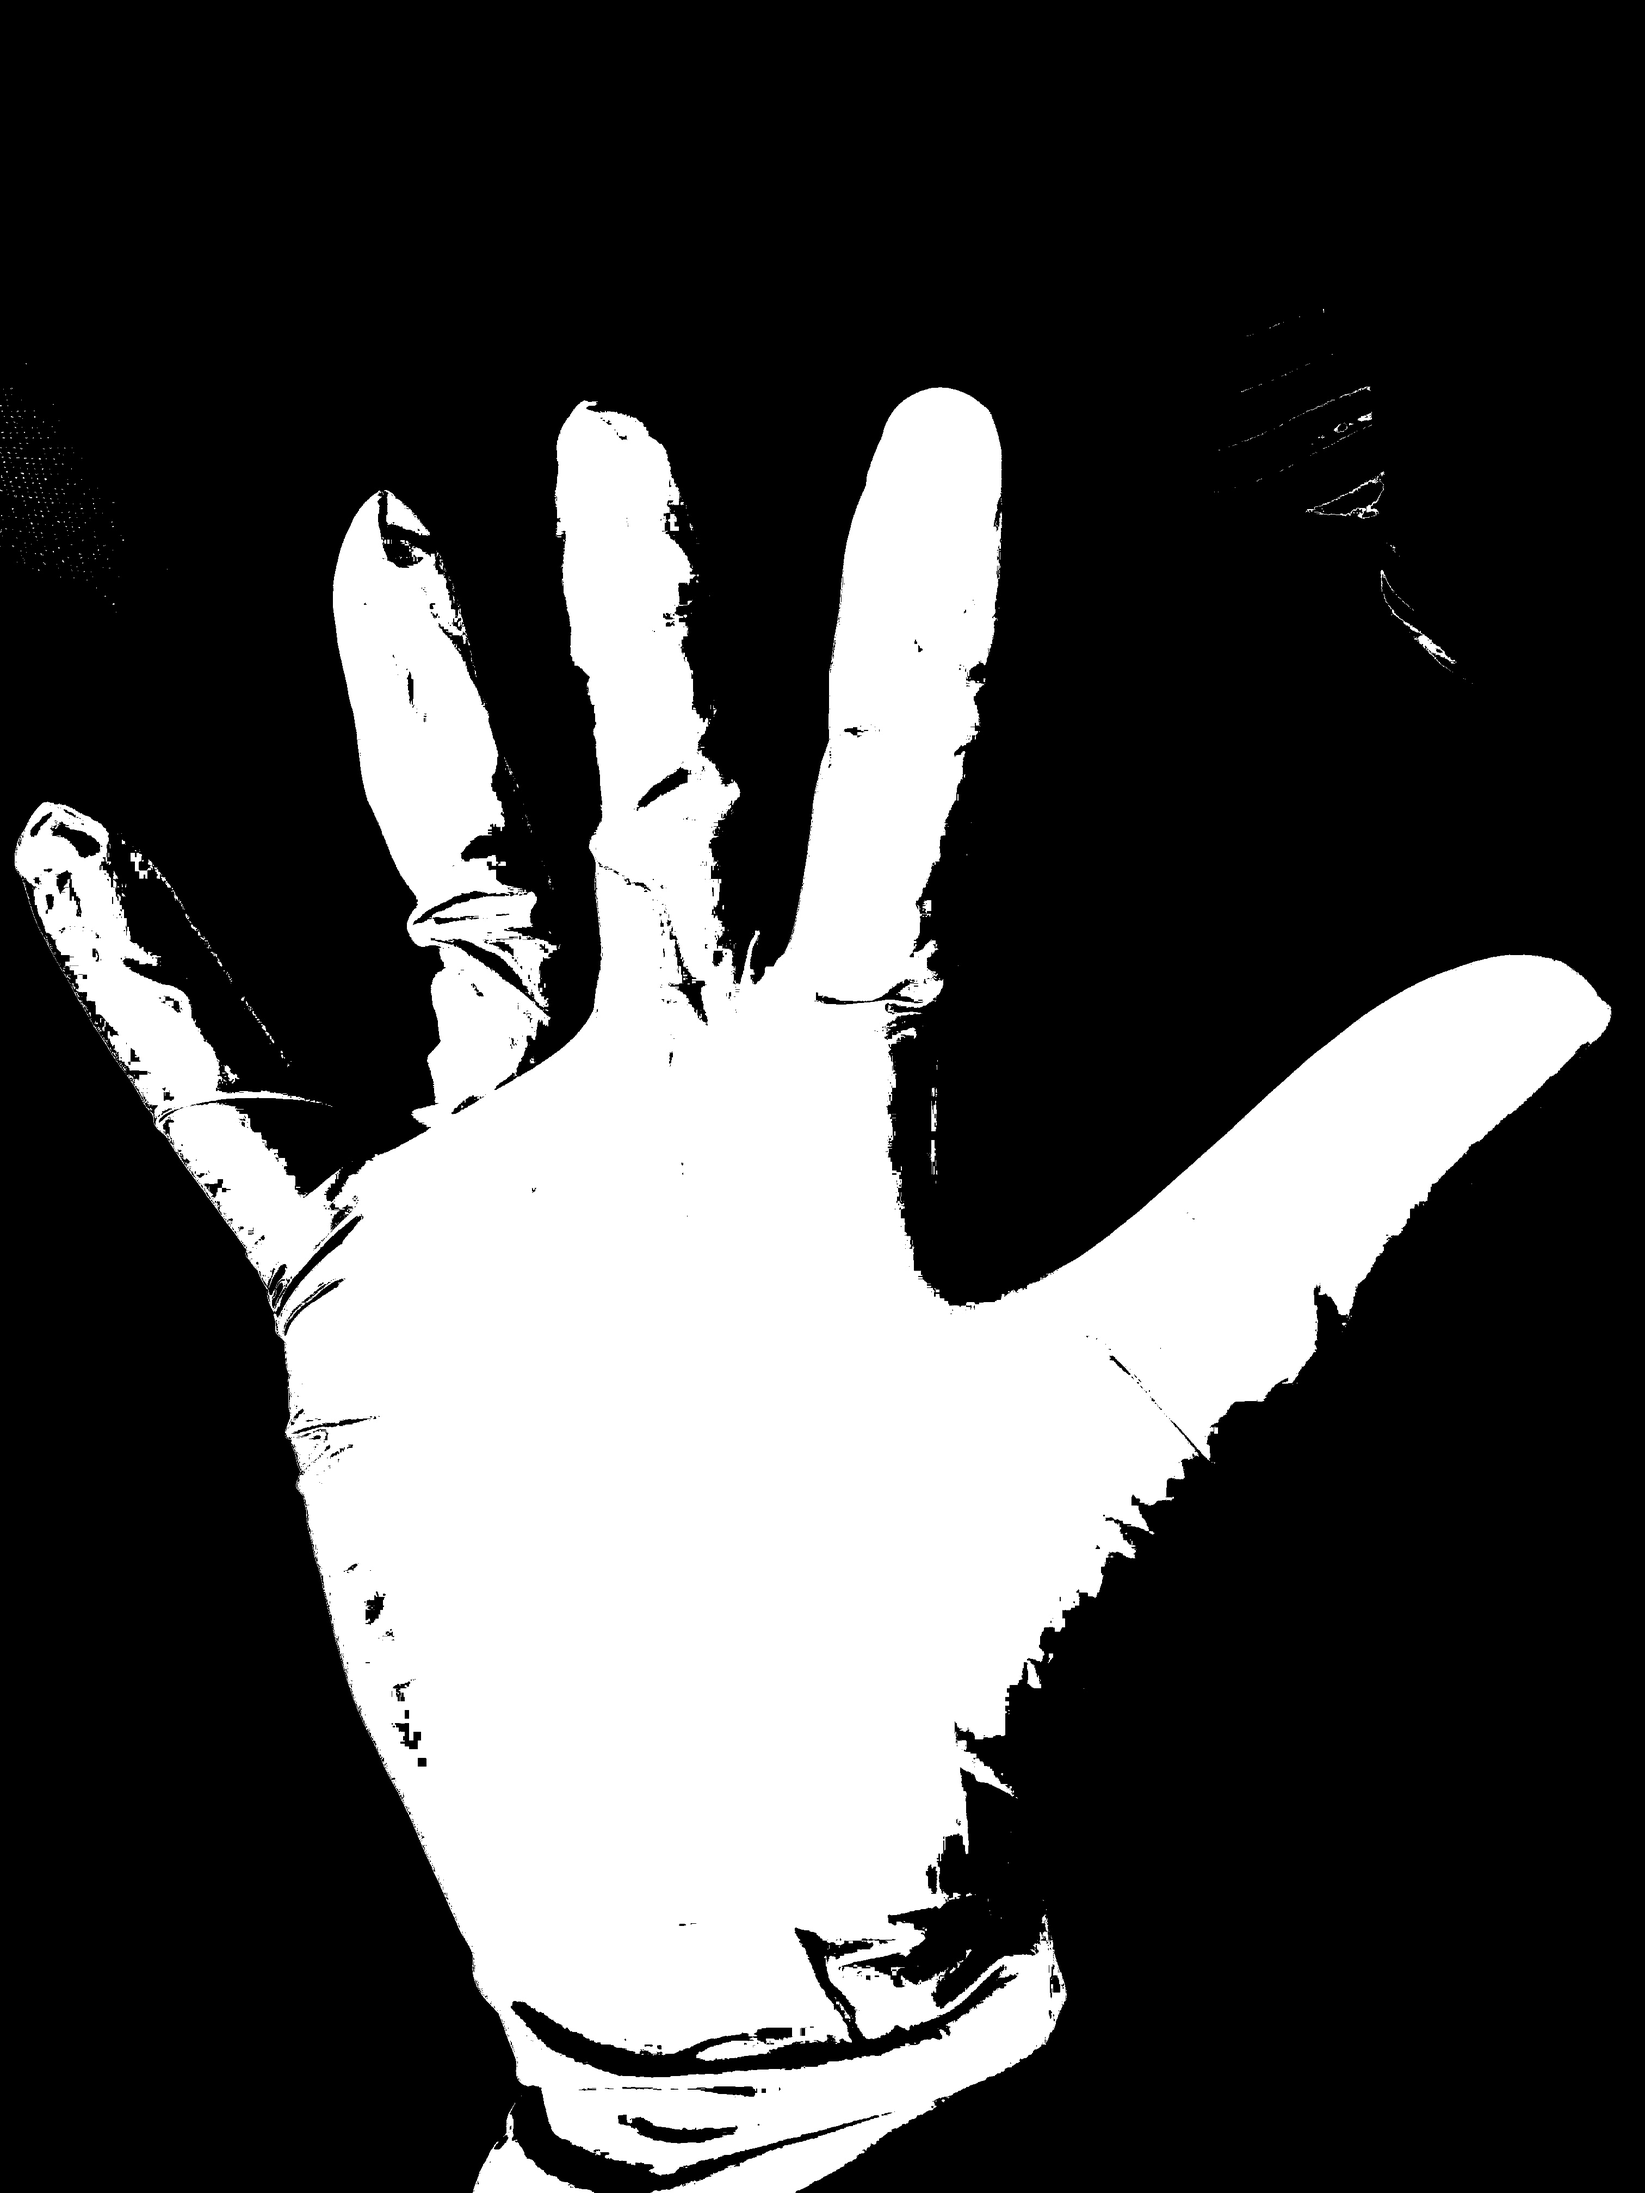
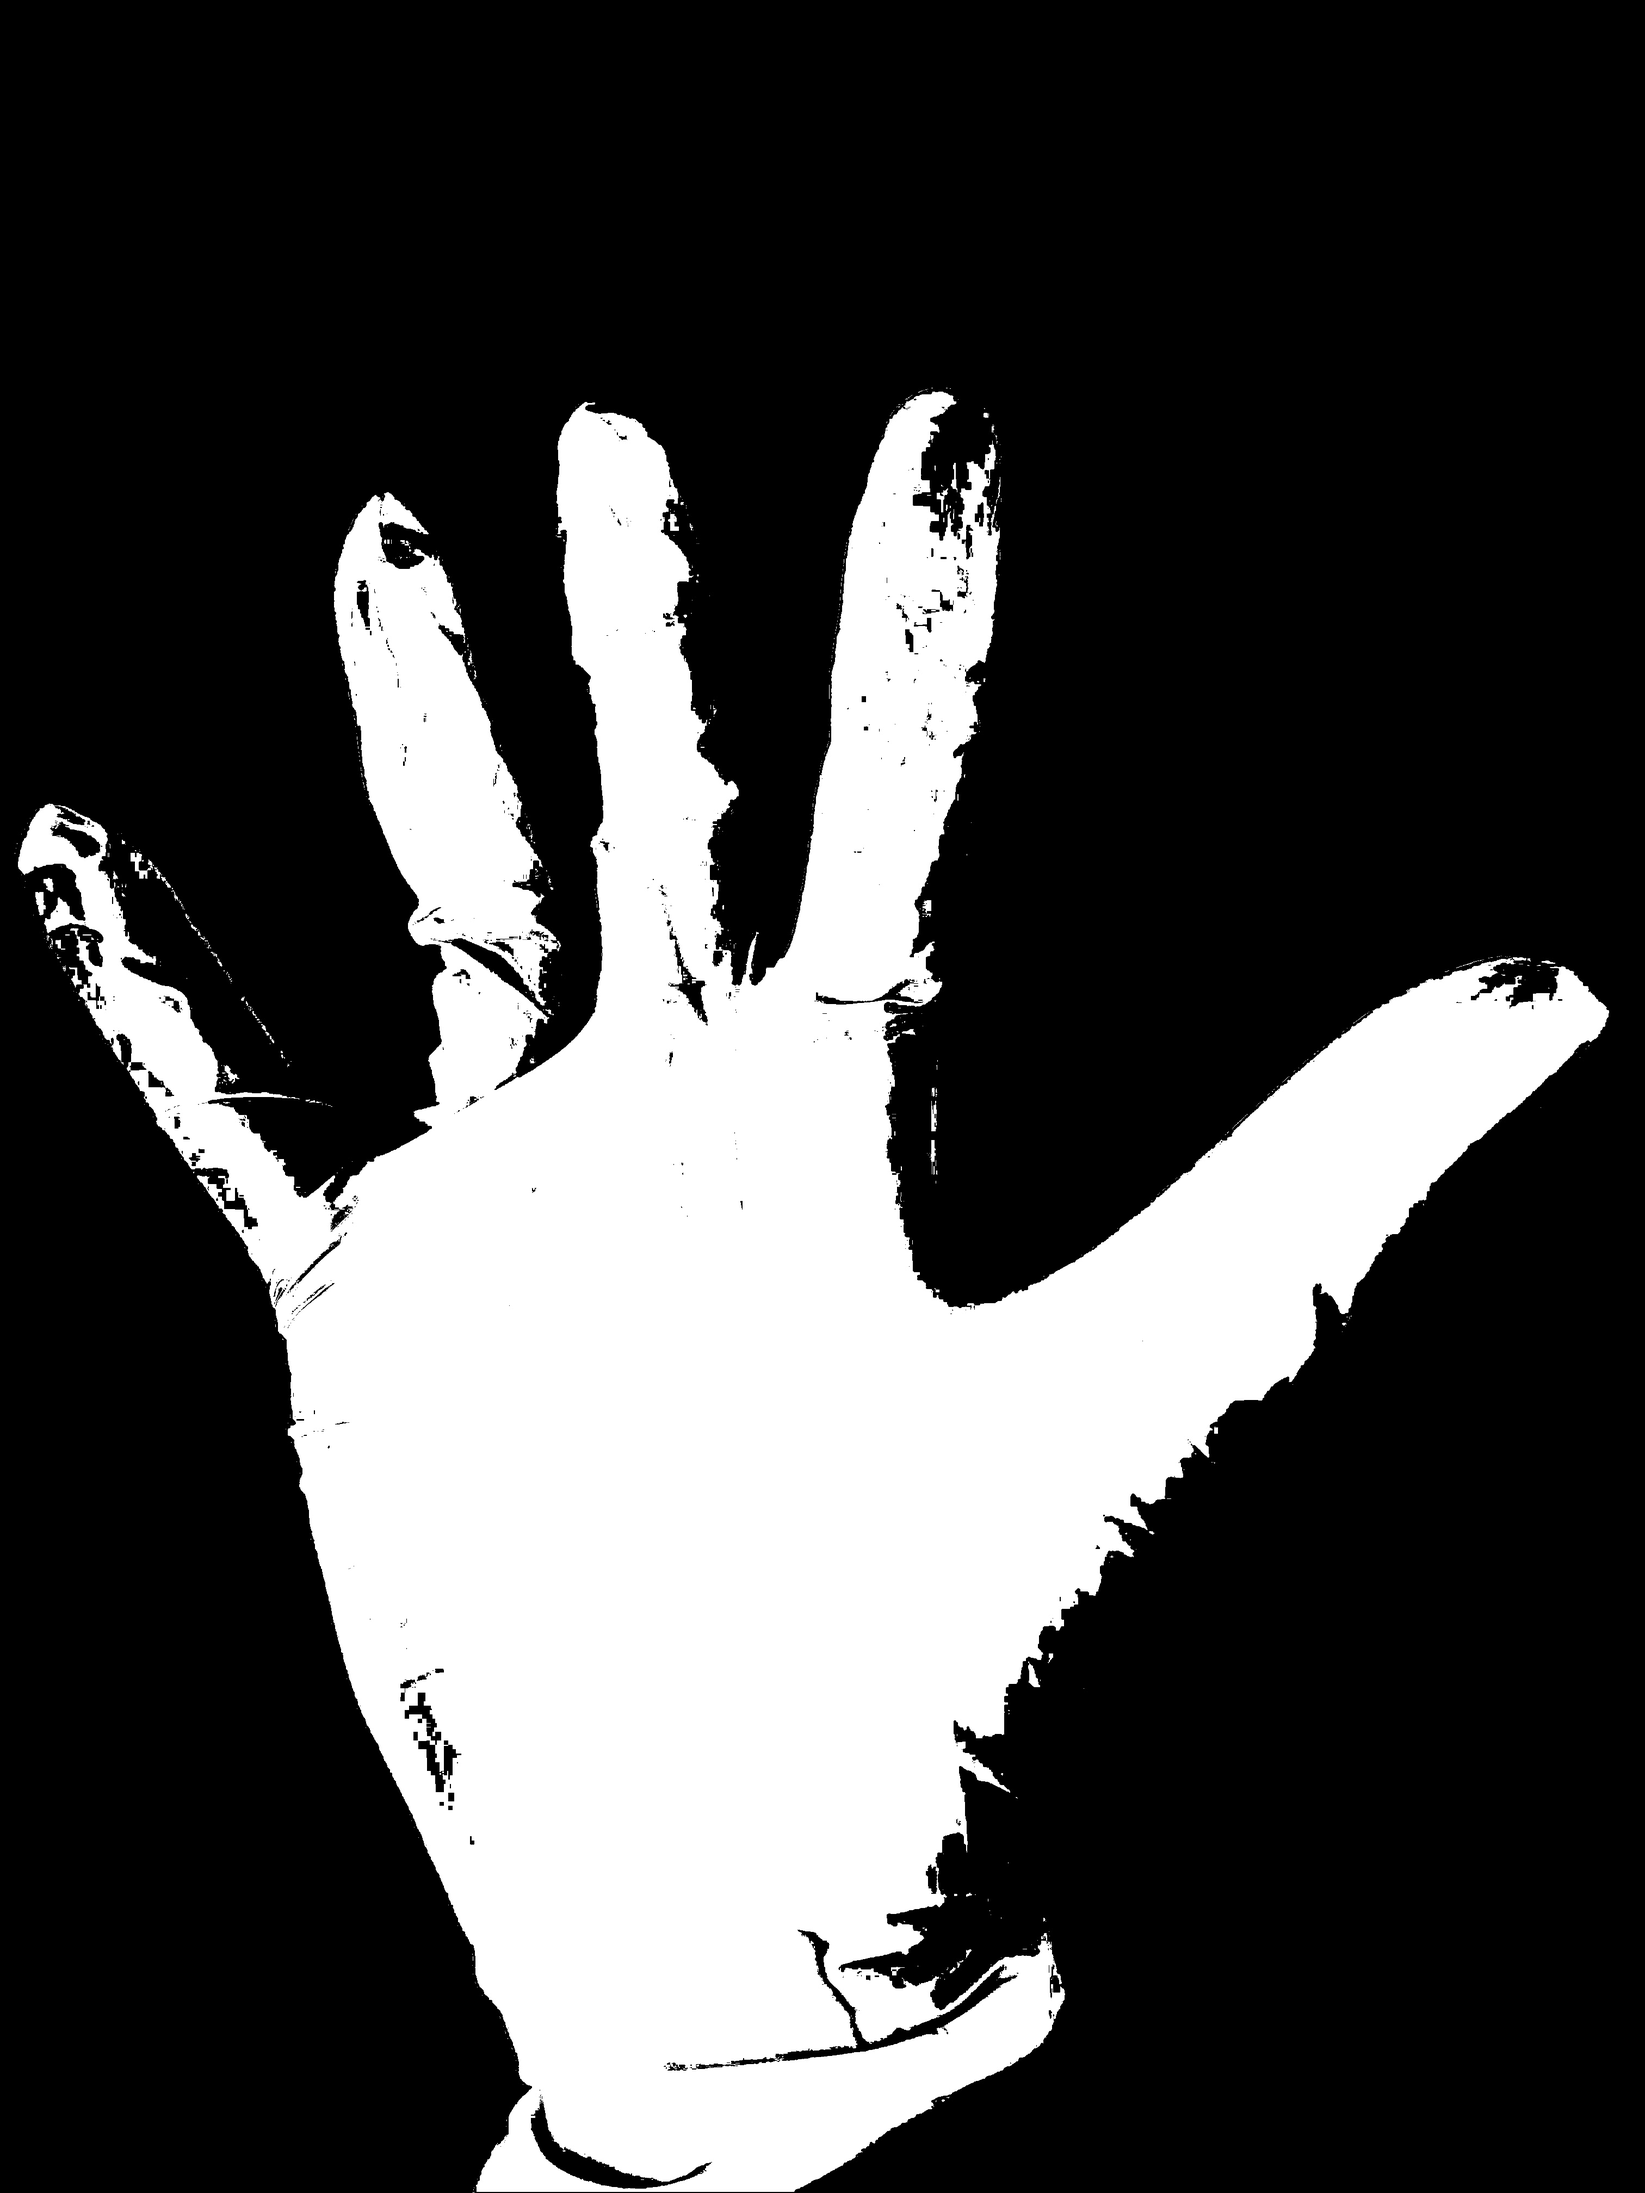
centroid of glove

diff --git a/color_detection/detect.py b/color_detection/detect.py
@@ -4,6 +4,8 @@ import sys; sys.path.insert(0, "/usr/local/lib/python3.7/site-packages")
 import numpy as np
 import argparse
 import cv2
+import imutils
+
 # construct the argument parse and parse the arguments
 ap = argparse.ArgumentParser()
 ap.add_argument("-i", "--image", help = "path to the image")
@@ -13,7 +15,7 @@ image = cv2.imread(args["image"])
 
 # define the list of boundaries
 boundaries = [
-    ([200, 50, 50], [255, 200, 200]),
+    ([200, 100, 0], [255, 205, 100]), # B G R order
 ]
 
 # loop over the boundaries
@@ -21,11 +23,39 @@ for (lower, upper) in boundaries:
     # create NumPy arrays from the boundaries
     lower = np.array(lower, dtype = "uint8")
     upper = np.array(upper, dtype = "uint8")
-    # find the colors within the specified boundaries and apply
-    # the mask
+
+    # find the colors within the specified boundaries
     mask = cv2.inRange(image, lower, upper)
+
+    # preprocess the data
+    blurred = cv2.GaussianBlur(mask, (5, 5), 0)
+    thresh = cv2.threshold(mask, 60, 255, cv2.THRESH_BINARY)[1]
+
+    # find contours in the thresholded image
+    cnts = cv2.findContours(thresh.copy(), cv2.RETR_EXTERNAL,
+        cv2.CHAIN_APPROX_SIMPLE)
+    cnts = imutils.grab_contours(cnts)
+
+    areas = [cv2.contourArea(c) for c in cnts]
+    max_idx = areas.index(max(areas))
+    # print ("cnts: ", areas)
+    print ("max_idx: ", max_idx)
+    print ("max_value: ", areas[max_idx])
+
+    M = cv2.moments(cnts[max_idx])
+    if M["m00"] == 0:
+        pass
+    cX = int(M["m10"] / (M["m00"] + 0.1))
+    cY = int(M["m01"] / (M["m00"] + 0.1))
+    # draw the contour and center of the shape on the image
+    cv2.drawContours(mask, [cnts[max_idx]], -1, (0, 255, 0), 2)
+    cv2.circle(mask, (cX, cY), 7, (255, 255, 255), -1)
+    cv2.putText(image, "center", (cX - 20, cY - 20),
+    cv2.FONT_HERSHEY_SIMPLEX, 0.5, (255, 255, 255), 2)
+    
+    # write the image and the mask
     cv2.imwrite("mask.jpg", mask)
     output = cv2.bitwise_and(image, image, mask = mask)
-    # show the images
-    cv2.imwrite("output.jpg", np.hstack([image, output]))
-    cv2.waitKey(0)
+
+    cv2.imwrite("sidebyside.jpg", np.hstack([image, output]))
+    cv2.imwrite("sidebyside.jpg", image)
